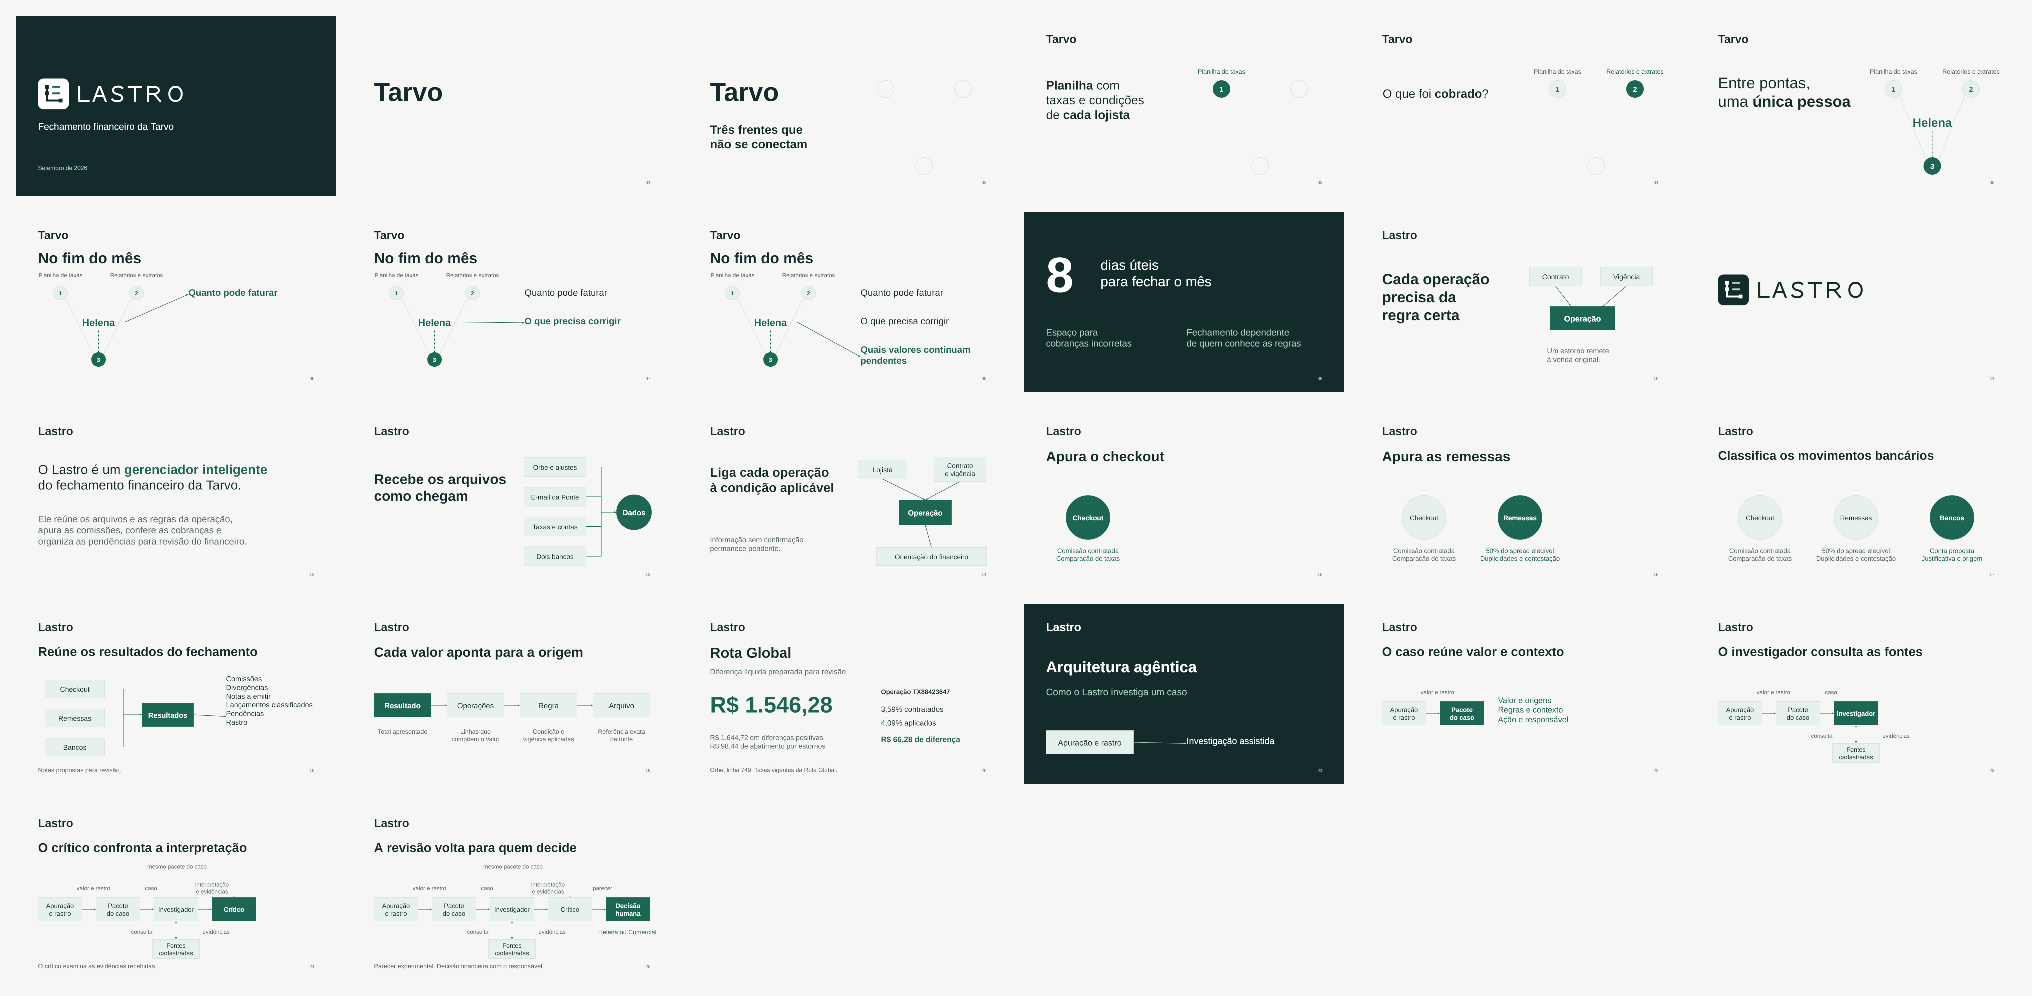
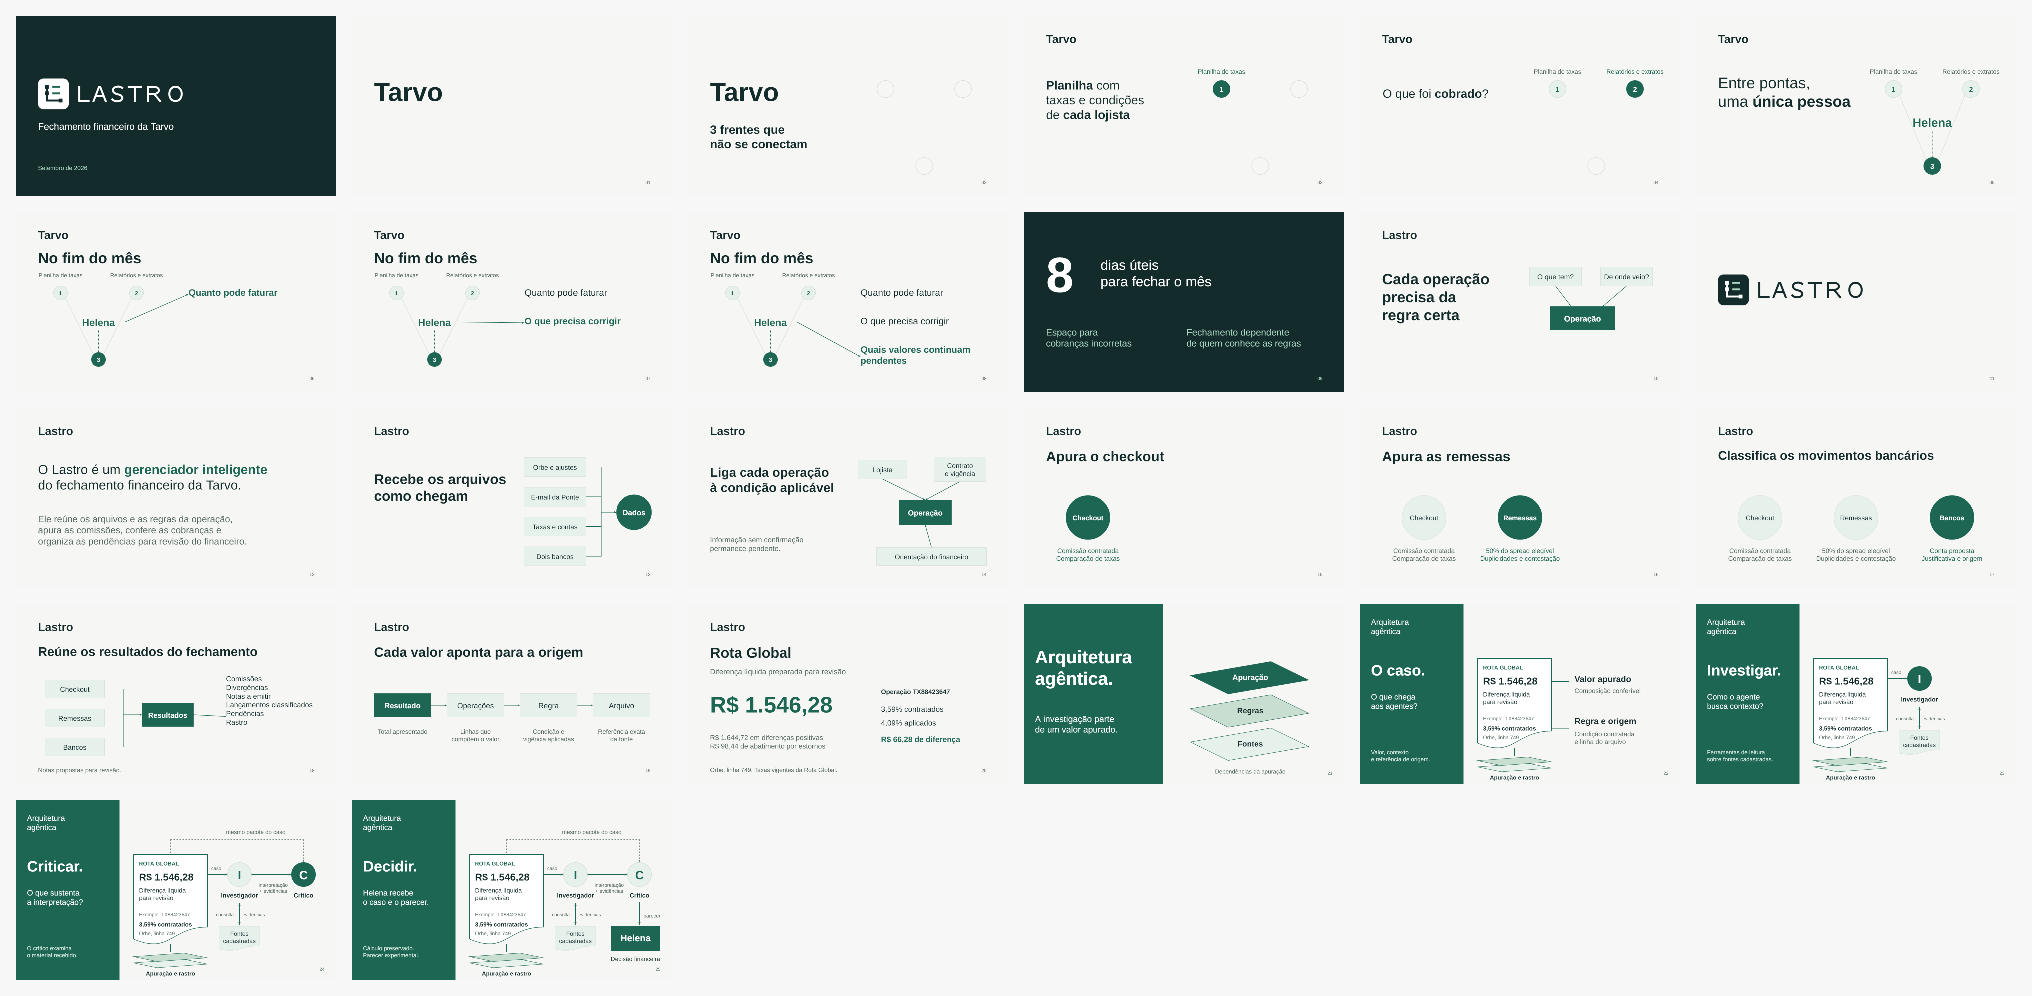
fix(apresentacao): reconstruir cenas da arquitetura com referência visual

diff --git a/docs/apresentacao/direcao-visual-canva.md b/docs/apresentacao/direcao-visual-canva.md
@@ -1,0 +1,65 @@
+# Direção visual do pitch: referência Canva e estudos Barte
+
+Revisão de 17/10/2026. Referência fornecida pela Lorena: apresentação **Sprint 5**, Canva, design `DAHXPa49m0k`, com 41 páginas em 1920 × 1080. A leitura combina o texto extraído pelo conector com inspeção visual no navegador. O arquivo de referência foi consultado sem alterações.
+
+Este documento registra escolhas observadas e sua aplicação proposta ao Lastro. Não transfere conteúdo, fotografias, identidade ou resultados do projeto de mobilidade para o case financeiro. A família tipográfica exata do Canva não foi confirmada.
+
+## 1. O que a referência mostra
+
+| Páginas do Canva | Construção observada | Função na explicação |
+|---|---|---|
+| 1–3 | Número muito grande sobre fotografia; mapa e número ocupam lados distintos; depois fotografia sem texto | Situar dimensão e realidade antes de enumerar o problema |
+| 3–9 | A mesma fotografia permanece. Entram passageiros, manutenção e custos em avanços separados | Acrescentar significado a uma cena que o público já reconhece |
+| 10–11 | Uma frase curta ocupa o palco e dá passagem ao próximo bloco | Criar pausa e mudar a pergunta da apresentação |
+| 12–15 | Planilha reconhecível e consequências adicionadas progressivamente | Ancorar o processo atual em um objeto de trabalho |
+| 19–22 | A abordagem começa pela janela temporal e acrescenta “Se”, “%” e “Quando”, associados às perguntas | Apresentar a necessidade antes do nome do algoritmo |
+| 23–27 | Primeiro aparecem os nomes dos modelos. Depois, um desenho amplo mostra dados, árvores, correções e agregação; Top-k recebe um avanço próprio | Separar nome, mecanismo e critério de uso |
+| 28–30 | A tela se divide entre abordagem e algoritmos. Ligações associam perguntas e modelos. A explicação temporal usa ondas, convergência e horizonte de previsão | Fazer a posição e o vínculo visual carregarem parte da explicação |
+| 31–33 | Resultados ligados aos modelos; mapa técnico; depois Docker recebe uma cena própria com símbolo grande e três consequências | Distinguir prova, visão de conjunto e detalhe técnico |
+| 34–41 | Pausas curtas, tabelas de custos, roadmap e encerramento com equipe | Alternar densidade, sem exigir o mesmo layout em todos os assuntos |
+
+Os contrastes entre violeta e azul muito claro, títulos pesados e rótulos largos dão presença ao material. São características observadas nessa apresentação. A preferência explicitada pela Lorena é uma referência para a construção da explicação; não autoriza presumir que toda apresentação deva usar essas mesmas cores ou desenhos.
+
+## 2. O que faltou na versão anterior do Lastro
+
+A versão anterior repetiu marca grande, título, caixas e setas em quase toda a sequência técnica. Embora acrescentasse um tópico por slide, oferecia pouco objeto concreto para acompanhar. As relações tinham peso visual semelhante, e uma linha de responsabilidades acabou substituindo as abstrações diferentes estudadas na Barte.
+
+A correção precisa acontecer na composição e na forma de explicar. Trocar apenas cor, fonte ou raio de borda não responde à crítica.
+
+## 3. Como as duas referências se complementam
+
+| Necessidade do Lastro | Referência que ajuda | Aplicação própria |
+|---|---|---|
+| Acompanhar uma explicação falada | Construção acumulativa do Canva | Manter posições e acrescentar uma relação por avanço |
+| Explicar o fundamento do cálculo | [Pilha Barte](https://www.barte.com/ai-services#hiw) | Planos de fontes, regras e apuração, explicitamente como dependências conceituais |
+| Explicar o tratamento do mesmo caso | [Esteira Sallve](https://mktbarte.github.io/cases/case-sallve.html) | Conservar o caso Rota Global e mudar o papel em foco |
+| Relacionar contexto e interpretação | [Fluxo Comp](https://mktbarte.github.io/cases/case-comp.html) | Mostrar pacote, consulta às fontes e material recebido pelo crítico |
+| Explicar a intervenção humana | Parada da esteira e associação entre perguntas e mecanismos no Canva | Dar posição própria à Helena e nomear o parecer como experimental |
+
+As referências Barte continuam sendo referências de comunicação, sem constituir modelo de cópia ou evidência da preferência estética da banca. A composição permanece autoral e usa os tokens do Lastro. O [documento de referências](referencias.md) conserva os limites de proveniência das páginas públicas.
+
+## 4. Regras práticas de composição
+
+- **Uma pergunta por avanço.** O título e a fala anunciam o assunto atual. A resposta ganha forma no desenho, sem repetir um parágrafo inteiro.
+- **Um objeto reconhecível.** Na investigação, o objeto é o caso, com valor, referência e regra. Ele permanece reconhecível ao mudar o foco.
+- **Hierarquia pelo tamanho e contraste.** Título de etapa grande, valor com presença e identificadores subordinados. A marca não disputa atenção em cada página.
+- **Posição tem significado.** A apuração sustenta o caso; ferramentas se ligam ao investigador; o crítico recebe material; a decisão tem responsável humano.
+- **Complexidade entra no momento certo.** A fundação aparece antes das consultas. O canal do pacote para o crítico só entra quando esse papel é explicado.
+- **Cenas diferentes para perguntas diferentes.** Fotografia situa uma realidade; camadas explicam dependência; percurso acompanha transformação; captura de produto comprova comportamento. Não aplicar o mesmo fluxograma a todos os slides.
+- **Fonte e limite perto da evidência.** Valor preparado para revisão continua com esse qualificador. O destaque indica foco da apresentação, sem simular execução ou aprovação.
+
+## 5. Trecho de desenvolvimento revisado
+
+Os avanços **21–25** recebem uma primeira aplicação desta direção. Eles conservam o total de 26 slides e as notas técnicas existentes. Os slides 0–20 ficam fora desta revisão, incluindo edições manuais no documento.
+
+| Avanço | Pergunta da fala | Representação |
+|---|---|---|
+| 21 | Em que a investigação se apoia? | Entrada explícita na arquitetura agêntica e planos de fontes, regras e apuração |
+| 22 | O que chega aos agentes? | Caso Rota Global ampliado, sustentado pela apuração e pelo rastro |
+| 23 | Como o investigador busca contexto? | Mesmo caso, investigador e consulta às fontes cadastradas |
+| 24 | Quem confronta a interpretação? | Acréscimo do crítico, com entradas de interpretação, evidências e mesmo pacote |
+| 25 | Quem decide? | Acréscimo da Helena como responsável pelo caso Rota, recebendo o parecer experimental |
+
+As figuras são diagramas conceituais editáveis. Não são capturas de interface nem registros de uma execução do modelo. O caso usa dados do pacote publicado em `b43e80e`; não demonstra cobrança enviada, recuperação realizada ou qualidade semântica validada da revisão agêntica. O crítico examina o material recebido, sem uma nova ligação de consulta às fontes.
+
+Fonte de reprodução: [arquitetura-cenas.mjs](slides/arquitetura-cenas.mjs). A aplicação visual deste trecho serve para revisar a direção antes de estendê-la ao restante do deck.

diff --git a/docs/apresentacao/slides/README.md b/docs/apresentacao/slides/README.md
@@ -37,7 +37,9 @@ Versão visual editável com 26 slides, correspondentes aos avanços 0 a 25 do [
 
 ## Composição
 
-Canvas 1280 × 720, proporção 16:9. Fundo claro e verde vêm dos tokens do Lastro; capa, consequências e entrada na arquitetura usam o verde escuro. A tipografia é Arial. Os diagramas, textos e conectores são objetos nativos editáveis da apresentação. A marca Lastro usa os SVGs originais do repositório, com proporção preservada.
+Canvas 1280 × 720, proporção 16:9. Fundo claro e verde vêm dos tokens do Lastro. A tipografia é Arial. Os diagramas, textos e conectores são objetos nativos editáveis da apresentação. A marca Lastro usa os SVGs originais do repositório, com proporção preservada.
+
+Os avanços 21–25 receberam uma revisão representativa a partir da apresentação Canva fornecida pela Lorena e dos estudos de abstrações da Barte. O campo verde conduz a fala, as camadas explicam a fundação e o mesmo caso Rota Global permanece no desenho enquanto entram investigador, crítico e Helena. A [direção visual](../direcao-visual-canva.md) distingue observação e adaptação. Os slides 0–20 preservam sua composição anterior e ainda não passaram por essa revisão.
 
 Os slides são estados sucessivos da composição. Há um tópico principal por avanço, com destaque no assunto novo. A apuração acrescenta uma frente de cada vez; a arquitetura mantém as posições e acrescenta pacote do caso, investigador, crítico e decisão humana. Esta versão não configura animação automática entre posições.
 
@@ -74,6 +76,10 @@ O callback preserva slides que já tenham formas e não os sobrescreve ao repeti
 
 As revisões visuais da abertura foram incorporadas à fonte: destaque em “Planilha” e “cada lojista” no slide 3, pergunta “O que foi cobrado?” no slide 4 e “Entre pontas, uma única pessoa” no slide 5. A fala completa continua nas notas. O documento editável é a referência para preservar edições feitas diretamente no visualizador.
 
+Na revisão da arquitetura também foram espelhadas duas edições manuais do documento: “3 frentes que não se conectam” no avanço 2; no avanço 10, título mais estreito, perguntas “O que tem?” e “De onde veio?” e remoção da observação visual sobre estorno. Essas edições foram preservadas na apresentação e registradas nas fontes/prévias, sem aplicar a nova direção visual a esses slides.
+
 [solucao-arquitetura.mjs](solucao-arquitetura.mjs) exporta `buildContinuation` para continuar na mesma sessão, depois dos dez slides de abertura. Executar em lotes consecutivos, aguardando cada chamada terminar: `[10, 11, 12, 13, 14]`, `[15, 16, 17, 18]`, `[19, 20, 21]` e `[22, 23, 24, 25]`. Usar `input.indices` para o lote e, no primeiro, `input.logoPath` apontando para `web/public/brand/lastro-logo.svg`. O callback preserva qualquer slide existente e recusa lacunas de numeração. Reparos posteriores usam os IDs inspecionados da mesma apresentação.
+
+[arquitetura-cenas.mjs](arquitetura-cenas.mjs) exporta `reviseArchitectureScenes`, a revisão dos avanços 21–25 no documento existente. O callback recebe `input.indices`, valida os IDs dos slides e substitui apenas suas formas, conservando notas e quantidade de slides. Executar em lotes consecutivos `[21, 22, 23]` e `[24, 25]`, sempre na mesma sessão. Os IDs são específicos dessa apresentação: se a ordem mudar ou surgirem imagens, reinspecionar antes de adaptar a validação. Não aplicar esse callback a outro deck sem revisão. A fonte anterior continua registrada no histórico.
 
 As imagens em `previews/` são capturas renderizadas da apresentação editável. Servem à revisão visual no repositório e precisam ser atualizadas quando o documento mudar.

diff --git a/docs/apresentacao/referencias.md b/docs/apresentacao/referencias.md
@@ -38,9 +38,15 @@ Essas abstrações respondem a perguntas diferentes. Escolher a forma pelo vínc
 
 O [roteiro](roteiro.md) contém a fala e a sequência de execução. A logo da Tarvo e a representação de Helena permanecem pendentes; não substituir por marcas ou retratos da Barte.
 
+## Referência de apresentação fornecida pela Lorena
+
+A apresentação Canva **Sprint 5** acrescenta uma referência direta de como a Lorena prefere construir uma explicação. A [direção visual documentada](direcao-visual-canva.md) registra os exemplos por página: cenário que permanece enquanto recebe informação, perguntas antes dos mecanismos, desenhos amplos para conceitos técnicos e associações espaciais entre abordagem e algoritmos. A inspeção incluiu a visão geral das 41 páginas e cenas ampliadas do problema e da explicação técnica.
+
+Essa referência orienta ritmo, hierarquia e composição. Os estudos da Barte orientam a escolha da abstração técnica adequada. A primeira aplicação conjunta refaz os avanços 21–25 com uma entrada de capítulo, camadas como fundamento e o mesmo caso Rota Global entre investigação, crítica e decisão. O restante do deck ainda precisa passar por essa revisão de direção.
+
 ## Aplicação à sequência da arquitetura
 
-Nos slides 21 a 25, a adaptação proposta combina a separação entre fontes e decisão do case Comp com o foco progressivo das estações do case Sallve. A arquitetura recebe um título explícito antes da construção. Cada avanço acrescenta uma responsabilidade ao mesmo desenho.
+Nos slides 21 a 25, a adaptação combina a separação entre fontes e decisão do case Comp, a fundação em camadas e a permanência do objeto de trabalho do case Sallve. A construção acumulativa e o contraste entre campos da apresentação Canva ajudam a conduzir a fala. A arquitetura recebe um título explícito antes da construção. Cada avanço acrescenta uma responsabilidade ao mesmo caso.
 
 | Avanço | Elemento revelado | Associação que deve ficar clara |
 |---|---|---|
